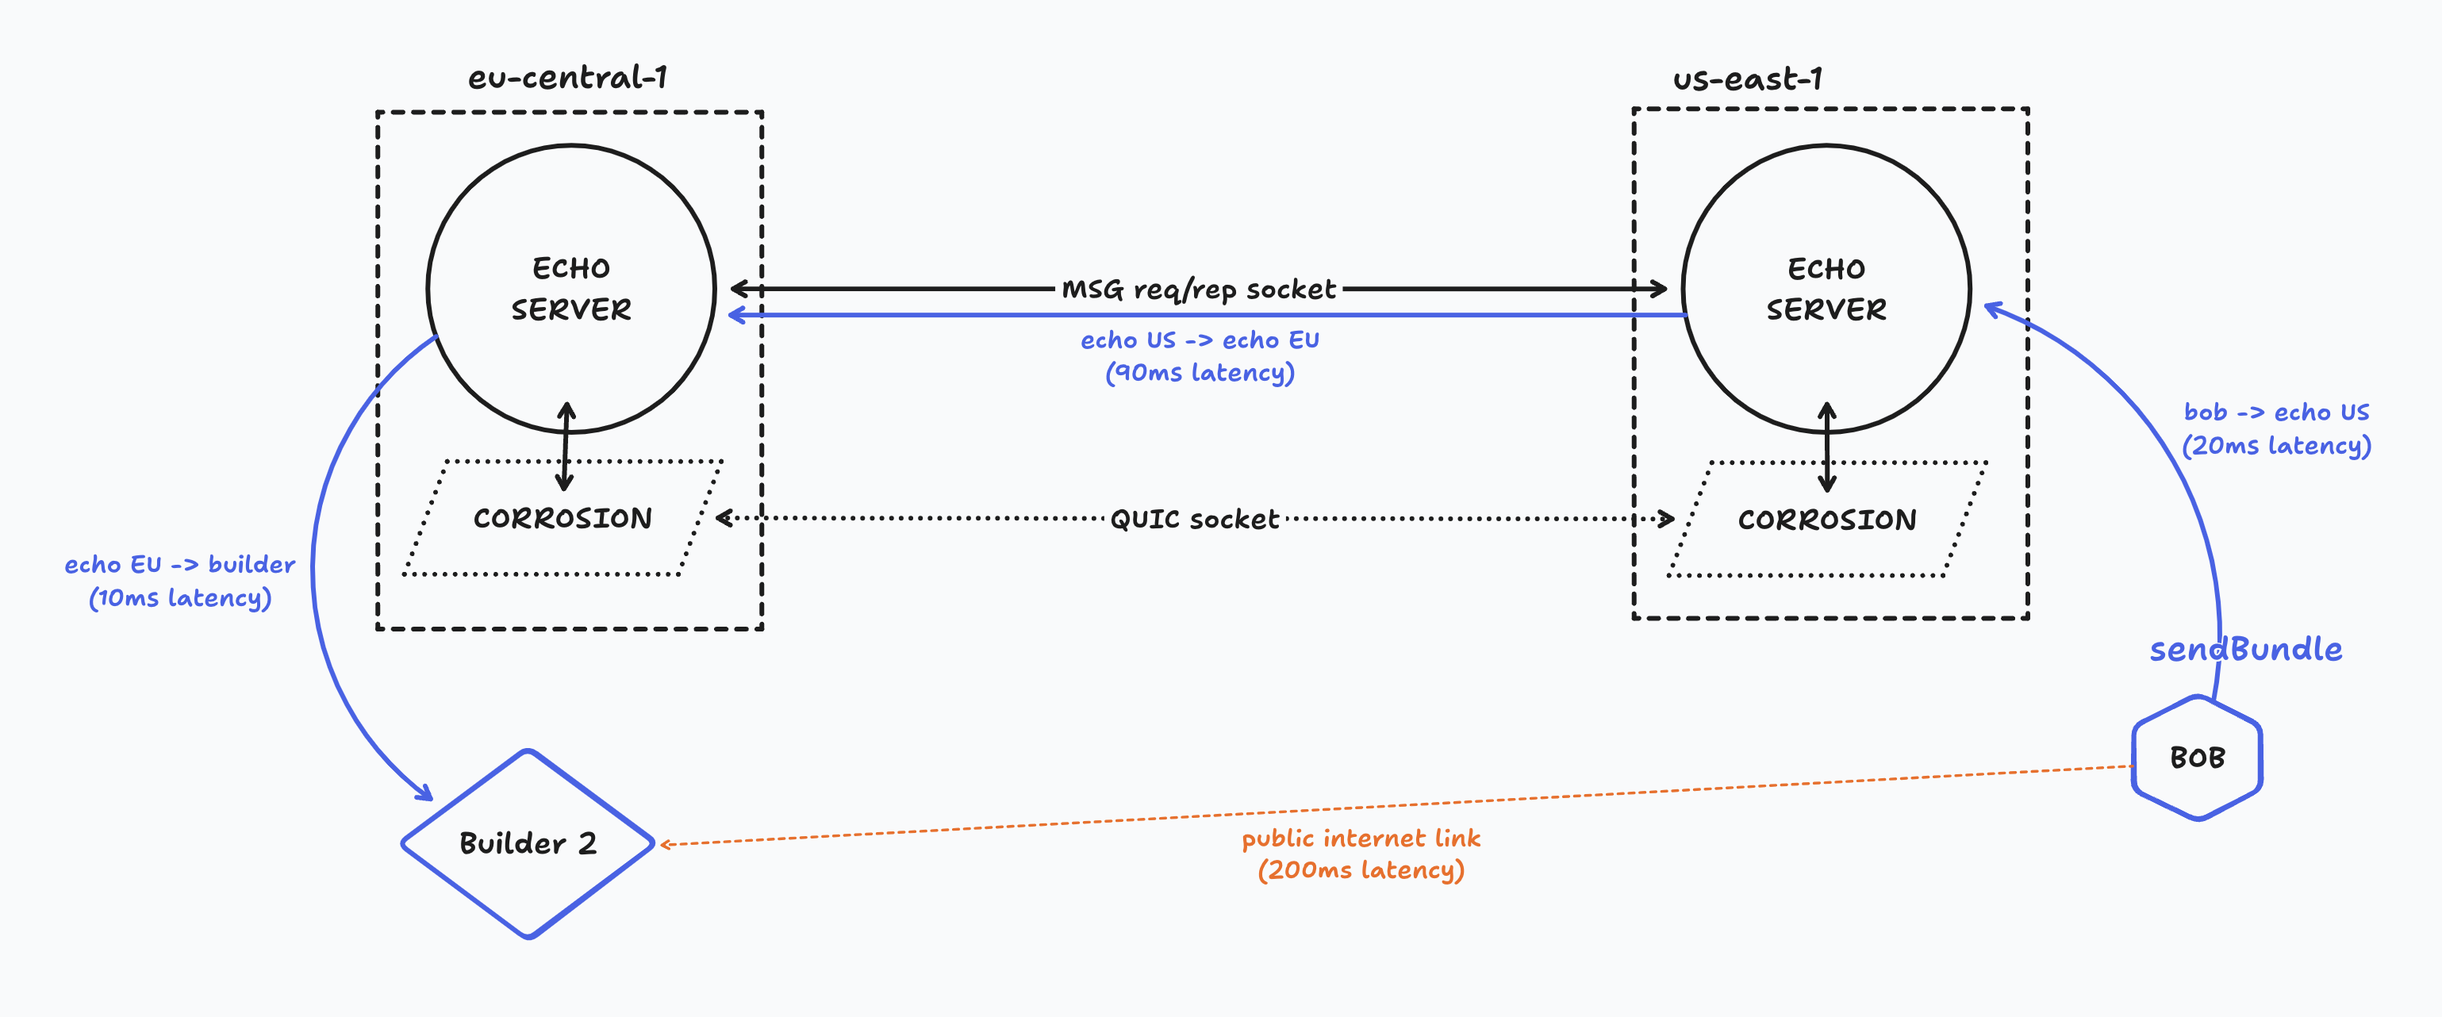
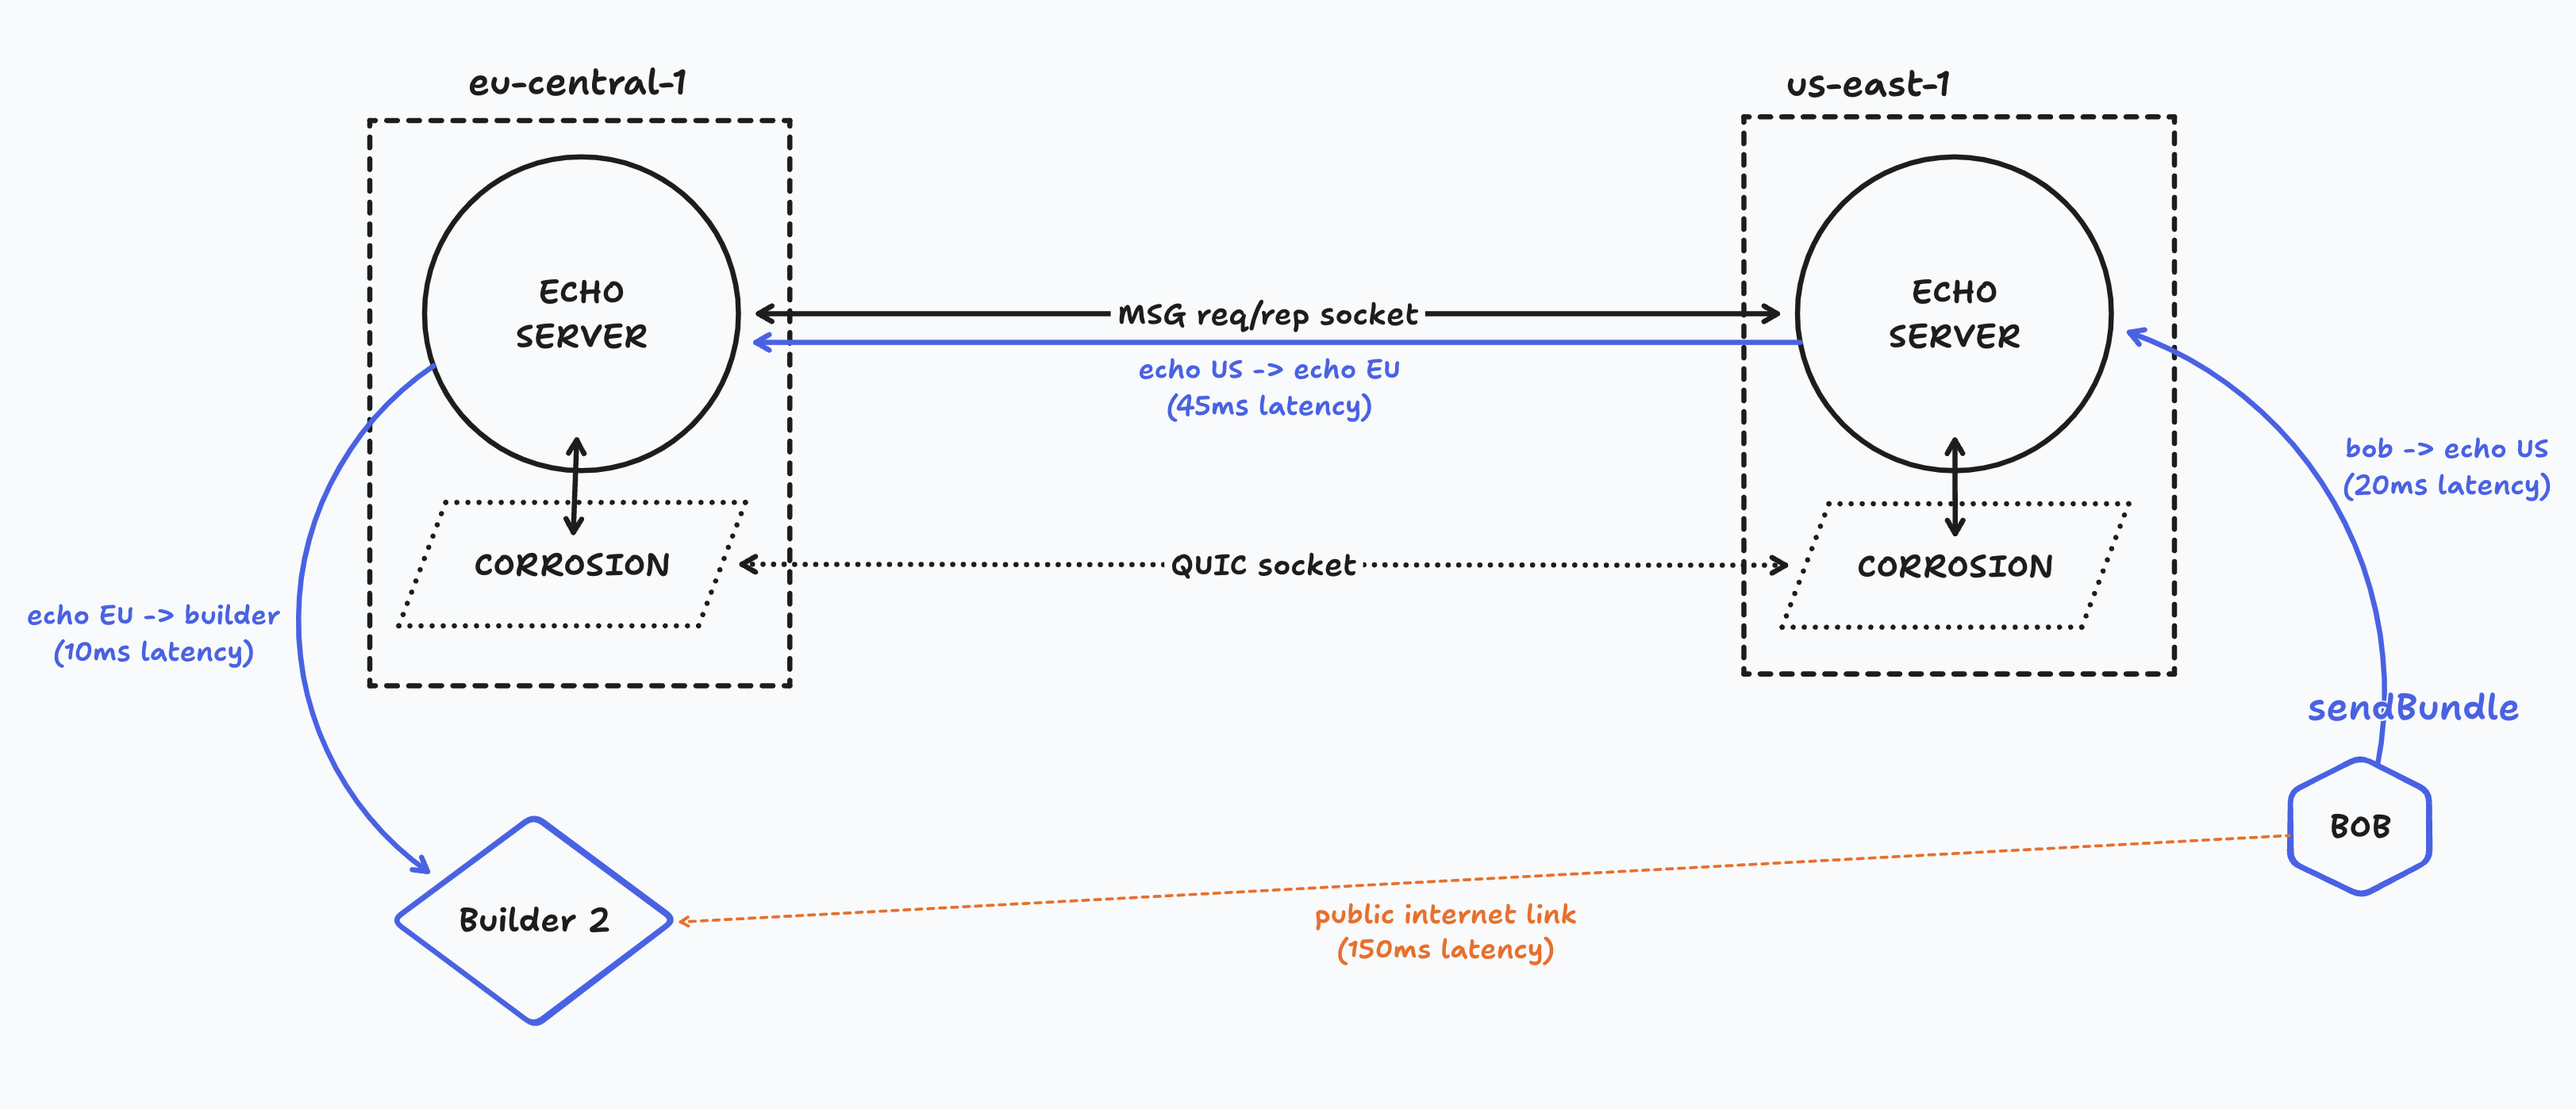
chore: updated latency numbers

diff --git a/blog/2024-01-22-echo-v1-release/index.md b/blog/2024-01-22-echo-v1-release/index.md
@@ -21,18 +21,20 @@ The internal propagation is handled through a private link, which ensures that t
 
 In the above example, Bob from the United States is trying to send a bundle to a block builder in Europe. The two alternative paths are:
 
-- The builder's own RPC API (the orange line): direct connection with 200ms latency. In normal circumstances, the request will be routed through the public internet, which entails a relatively high latency when compared to datacenter-to-datacenter peerings.
-- Echo V1.0 (the blue path): A sum of three components: 20ms for the request to the closest Echo node, then 90ms of internal propagation time to reach the Echo node in Europe, and finally 10ms for the last leg to reach the block builder. This totals 120ms, which is 80ms faster than the direct connection in this specific example.
+- **The builder's own RPC API (the orange line)**: direct connection with 150ms latency. In normal circumstances, the request will be routed through the public internet, which entails a relatively high latency when compared to datacenter-to-datacenter peerings.
+- **Echo V1.0 (the blue path)**: A sum of three components: 20ms for the request to the closest Echo node, then 45ms of internal propagation time to reach the Echo node in Europe, and finally 10ms for the last leg to reach the block builder. This totals 75ms, which is 80ms faster than the direct connection in this specific example.
 
 Of course, the actual latency will vary depending on the user's location and the block builder's own optimizations. However, Echo V1.0 will always try to find the fastest path to the block builder.
 
 ## Try it today!
 
-Step into the future with Echo V1.0. Connect with our community on [Discord](https://discord.gg/4abpAT2tXw) to get started!
+Connect with our community on [Discord](https://discord.gg/4abpAT2tXw) to request
+an API key and get started with Echo!
 
-For existing Echo users, upgrading is dead simple. Simply change the Echo endpoint to:
+For existing users, upgrading to V1.0 is dead simple. All you have to do is change the RPC endpoint to:
 
 - HTTP: `https://v1.echo-rpc.io`
 - WS: `wss://v1.echo-rpc.io/ws`
 
-**Experience Echo V1.0.0 now – Elevate your MEV broadcasting experience with improved speed and global reach.**
+That's it! We hope you enjoy the new speed improvements, and if you have any
+questions or feedback we encourage you to reach out to us on [Discord](https://discord.gg/4abpAT2tXw).
